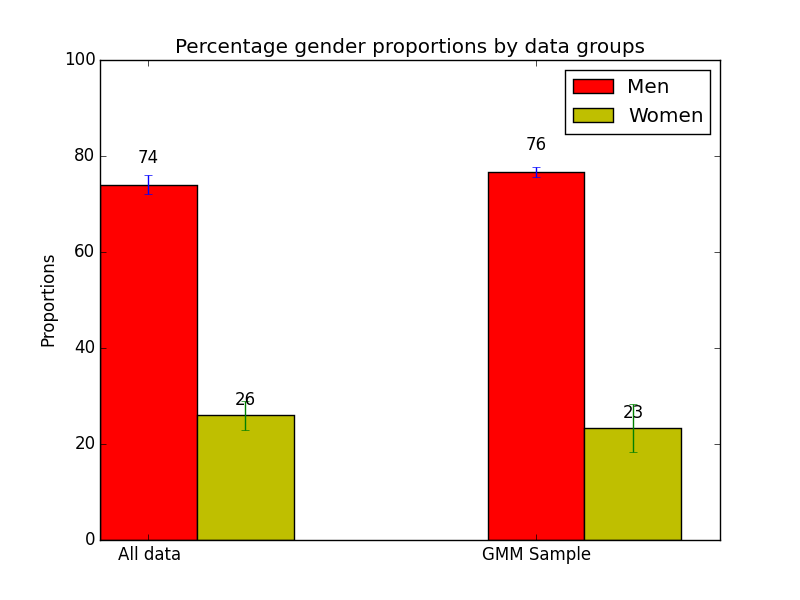
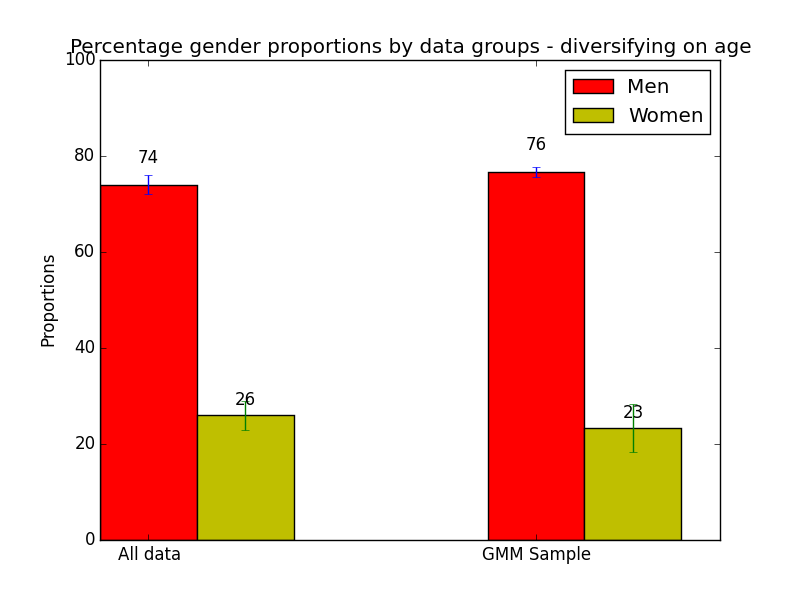
results on diversification on age, sampling max 5% of the whole data

Changed region(s): [[0.0938, 0.06, 0.9375, 0.09]]

diff --git a/diverse_sampling_adult.py b/diverse_sampling_adult.py
@@ -6,17 +6,19 @@ import helpers as h
 import matplotlib.pyplot as plt
 
 
-def sample_diverse_k(data, k):
+def sample_diverse_k(data, k=10):
     # create a numpy matrix of the data
     d = np.array(data)
     print "length of data received = ", len(data)
+
+    print "d = ", d
 
     # normalize columns
     d_normed = d / d.max(axis=0)
     print d_normed
 
-    # get 10% of the data
-    k = math.ceil(0.3 * len(data))
+    # get 5% of the data
+    k = math.ceil(0.05 * len(data))
 
     print "k = ", k
 
@@ -37,73 +39,103 @@ def evaluate_fairness(data, sample, fairness_attributes):
     print sample_sensitive_attributes_values
     return sample_sensitive_attributes_values
 
-# x = [100, 1000, 3000, 10000]
-x = [100]
 
-totals = []
-for i in x:
-    # props_x = []
-    total_data = pad.process(i)
-    data = pad.process(i, ["age"])
-    sample = sample_diverse_k(data, 300)
+def sample_on(x, diversification_attribute):
+    total_data = pad.process(x)
+    data = pad.process(x, [diversification_attribute])  # obtain data based on diversification attribute
+    sample = sample_diverse_k(data)
+
+    return total_data, sample, diversification_attribute
+
+
+def compute_gender_proportions(total_data, sample):
     fairness_attributes = pad.obtain_sensitive_attributes_columns(["gender"])
-    # print "fairness attributes = ", fairness_attributes
     sample_sensitive_attributes_values = evaluate_fairness(total_data, sample, fairness_attributes)
 
-    # print "checking this ", h.my_counter(pad.compute_proportions(total_data, fairness_attributes[0]), "female")
-    # print "checking this 2 ", h.my_counter(pad.compute_proportions(total_data, fairness_attributes[0]), "male")
-
-    total_female_prop = float(h.my_counter(pad.compute_proportions(total_data, fairness_attributes[0]), "female")) / len(total_data)
-    total_male_prop = float(h.my_counter(pad.compute_proportions(total_data, fairness_attributes[0]), "male")) / len(total_data)
+    total_female_prop = float(
+        h.my_counter(pad.compute_proportions(total_data, fairness_attributes[0]), "female")) / len(total_data)
+    total_male_prop = float(h.my_counter(pad.compute_proportions(total_data, fairness_attributes[0]), "male")) / len(
+        total_data)
 
     sample_female_prop = float(h.my_counter(sample_sensitive_attributes_values, "female")) / len(sample)
     sample_male_prop = float(h.my_counter(sample_sensitive_attributes_values, "male")) / len(sample)
 
-    # print total_male_prop, total_female_prop, sample_male_prop, sample_female_prop
     props_x = [total_male_prop, total_female_prop, sample_male_prop, sample_female_prop]
 
     print "proportions = ", props_x
-
-    totals = props_x
-
-print totals
-
-# plot
-# import numpy as np
-# import matplotlib.pyplot as plt
-
-# N = 5
-N = 2
-# men_means = (20, 35, 30, 35, 27)
-men_means = (totals[0]*100, totals[2]*100)
-# men_std = (2, 3, 4, 1, 2)
-men_std = (2, 1)
-# men_std = (1, 1)
-
-ind = np.arange(N)  # the x locations for the groups
-width = 0.25      # the width of the bars
-
-fig, ax = plt.subplots()
-rects1 = ax.bar(ind, men_means, width, color='r', yerr=men_std)
-
-# women_means = (25, 32, 34, 20, 25)
-women_means = (totals[1]*100, totals[3]*100)
-# women_std = (3, 5, 2, 3, 3)
-women_std = (3, 5)
-rects2 = ax.bar(ind + width, women_means, width, color='y', yerr=women_std)
-
-# add some text for labels, title and axes ticks
-ax.set_ylabel('Proportions')
-ax.set_title('Percentage gender proportions by data groups')
-ax.set_xticks(ind + width / 2)
-ax.set_xticklabels(('All data', 'GMM Sample'))
-ax.set_ylim(0, 100)
-# ax.set_xticklabels(('All data', 'GMM Sample', 'G3', 'G4', 'G5'))
-
-ax.legend((rects1[0], rects2[0]), ('Men', 'Women'))
+    return props_x
 
 
-def autolabel(rects):
+def compute_racial_proportions(total_data, sample):
+    fairness_attributes = pad.obtain_sensitive_attributes_columns(["race"])
+    sample_sensitive_attributes_values = evaluate_fairness(total_data, sample, fairness_attributes)
+
+    total_white_prop = float(
+        h.my_counter(pad.compute_proportions(total_data, fairness_attributes[0]), "white")) / len(total_data)
+    total_black_prop = float(h.my_counter(pad.compute_proportions(total_data, fairness_attributes[0]), "black")) / len(
+        total_data)
+    total_asian_prop = float(h.my_counter(pad.compute_proportions(total_data, fairness_attributes[0]), "asian-pac-islander")) / len(
+        total_data)
+    total_other_prop = float(h.my_counter(pad.compute_proportions(total_data, fairness_attributes[0]), "other")) / len(
+        total_data)
+    total_native_a_prop = float(h.my_counter(pad.compute_proportions(total_data, fairness_attributes[0]), "amer-indian-eskimo")) / len(
+        total_data)
+
+    sample_white_prop = float(h.my_counter(sample_sensitive_attributes_values, "white")) / len(sample)
+    sample_black_prop = float(h.my_counter(sample_sensitive_attributes_values, "black")) / len(sample)
+    sample_asian_prop = float(h.my_counter(sample_sensitive_attributes_values, "asian-pac-islander")) / len(sample)
+    sample_other_prop = float(h.my_counter(sample_sensitive_attributes_values, "other")) / len(sample)
+    sample_native_a_prop = float(h.my_counter(sample_sensitive_attributes_values, "amer-indian-eskimo")) / len(sample)
+
+    props_x = [total_white_prop, total_black_prop, total_asian_prop, total_other_prop, total_native_a_prop,
+               sample_white_prop, sample_black_prop, sample_asian_prop, sample_other_prop, sample_native_a_prop]
+
+    print "proportions = ", props_x
+    return props_x
+
+
+def build_gender_rects(gender_props, ax, ind, width=0.2):
+    men_std = (2, 3)
+    men_props = (gender_props[0]*100, gender_props[2]*100)
+    rects1 = ax.bar(ind, men_props, width, color='r', yerr=men_std)
+
+    women_means = (gender_props[1]*100, gender_props[3]*100)
+    women_std = (3, 5)
+    rects2 = ax.bar(ind + width, women_means, width, color='y', yerr=women_std)
+    y = [rects1, rects2]
+    rect_keys = (rects1[0], rects2[0])
+    rect_values = ('Men', 'Women')
+    return y, rect_keys, rect_values
+
+
+def build_race_rects(race_props, ax, ind, width=0.15):
+    white_std = (2, 3)
+    white_props = (race_props[0] * 100, race_props[5] * 100)
+    rects1 = ax.bar(ind, white_props, width, color='r', yerr=white_std)
+
+    black_props = (race_props[1]*100, race_props[6]*100)
+    black_std = (3, 5)
+    rects2 = ax.bar(ind + width, black_props, width, color='y', yerr=black_std)
+
+    asian_props = (race_props[2]*100, race_props[7]*100)
+    asian_std = (3, 5)
+    rects3 = ax.bar(ind + 2*width, asian_props, width, color='g', yerr=asian_std)
+
+    native_props = (race_props[4] * 100, race_props[9] * 100)
+    native_std = (3, 5)
+    rects4 = ax.bar(ind + 3 * width, native_props, width, color='c', yerr=native_std)
+
+    other_props = (race_props[3] * 100, race_props[8] * 100)
+    other_std = (3, 5)
+    rects5 = ax.bar(ind + 4 * width, other_props, width, color='b', yerr=other_std)
+
+    y = [rects1, rects2, rects3, rects4, rects5]
+    rect_keys = (rects1[0], rects2[0], rects3[0], rects4[0], rects5[0])
+    rect_values = ('White', 'Black', 'Asian', 'Native', 'Other')
+    return y, rect_keys, rect_values
+
+
+def autolabel(ax, rects):
     """
     Attach a text label above each bar displaying its height
     """
@@ -113,12 +145,37 @@ def autolabel(rects):
                 '%d' % int(height),
                 ha='center', va='bottom')
 
-autolabel(rects1)
-autolabel(rects2)
 
-fig.savefig("./data/results/gender_proportions")
+def plot_multi_bars(ax, fig, rects, rects_keys, rects_values, sensitive_a, div_attribute, k_perc, width=0.2):
+    print "rects contains = ", rects
+    width = width  # the width of the bars
 
-plt.show()
+    # add some text for labels, title and axes ticks
+    ax.set_ylabel('Proportions')
+    ax.set_title('Percentage ' + sensitive_a + ' proportions by data groups - diversifying on ' + div_attribute)
+    ax.set_xticks(ind + width / 2)
+    ax.set_xticklabels(('All data', 'GMM Sample'))
+    ax.set_ylim(0, 100)
 
+    ax.legend(rects_keys, rects_values)
 
-# def plot_multi_bars(group_names, group_data)
+    for rect in rects:
+        autolabel(ax, rect)
+    # fig.savefig("./data/results/" + div_attribute + "_" + sensitive_a + "_proportions_kperc_"+str(k_perc))
+    fig.savefig("./data/results/" + div_attribute + "_" + sensitive_a + "_proportions_ss_100")
+    plt.show()
+
+k_perc = 5
+all_data, data_sample, div_attribute = sample_on(100, "education-num")
+gender_totals = compute_gender_proportions(all_data, data_sample)
+# racial_totals = compute_racial_proportions(all_data, data_sample)
+
+# plot
+
+N = 2  # number of groups
+ind = np.arange(N)  # the x locations for the groups
+figure, axes = plt.subplots()
+g_rects, g_rect_keys, g_rect_values = build_gender_rects(gender_totals, axes, ind)
+plot_multi_bars(axes, figure, g_rects, g_rect_keys, g_rect_values, "gender", "education-num", k_perc)
+# r_rects, r_rect_keys, r_rect_values = build_race_rects(racial_totals, axes, ind)
+# plot_multi_bars(axes, figure, r_rects, r_rect_keys, r_rect_values, "race", "age", k_perc)
